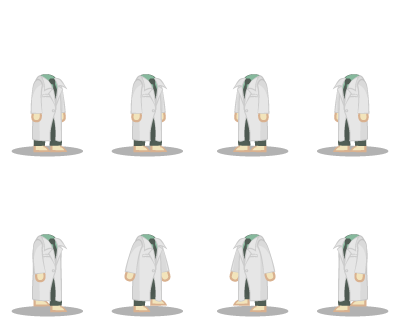
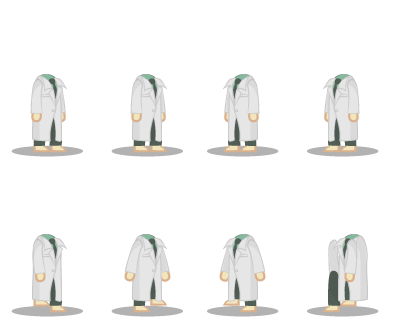
Adjusted body sprite sheets, added heads to sprites doc

diff --git a/prototype/MoneyChecker.html b/prototype/MoneyChecker.html
@@ -1,0 +1,39 @@
+<html>
+<body>
+<h1>Hirees</h1>
+<select>
+  <option value="100">100 Igor</option>
+  <option value="300">300 Steve</option>
+  <option value="500">500 Dr Stone</option>
+  <option value="900">900 Max Planck</option>
+  <option value="1000">1000 Ernest Rutherford</option>
+  <option value="1200">1200 Marie Curie</option>
+  <option value="1500">1500 JJ Thomson</option>
+  <option value="1700">1700 Thomas Edison</option>
+  <option value="2000">2000 Nikola Tesla</option>
+  <option value="3000">3000 Albert Einstein</option>
+  <option value="5000">5000 Isaac Newton</option>
+</select>
+<input type="button" value="Hire" onclick=""/>
+<h1>Build</h1>
+<select>
+  <option value="100">100 Lift</option>
+  <option value="500">500 Waiting Room</option>
+  <option value="500">500 Meeting Room</option>
+  <option value="1000">1000 Info Lab</option>
+  <option value="1500">1500 Psych Lab</option>
+  <option value="3000">3000 Boom Lab</option>
+  <option value="5000">5000 Bio Lab</option>
+  <option value="10000">10000 Cosmo Lab</option>
+</select>
+<input type="button" value="Build" onclick=""/>
+<h1>Money: <span id="money">0</span></h1>
+<pre id="output">
+  Actions:
+</pre>
+<script>
+var money = document.getElementById("money").innerHTML;
+var operatingCost = [];
+</script>
+</body>
+</html>

diff --git a/SpritesSpecSheet.md b/SpritesSpecSheet.md
@@ -28,6 +28,20 @@ Entities
 * 0: Standing
 * 1: Walking
 
+
+Heads
+-----
+
+(Relative to Entity)
+* Position: 0, 0
+* Dimensions: 92, 86
+
+### Sprite Sheet
+
+* X Index, Name
+* 0: Facing Right
+* 1: Facing Left
+
 Lifts
 -----
 
